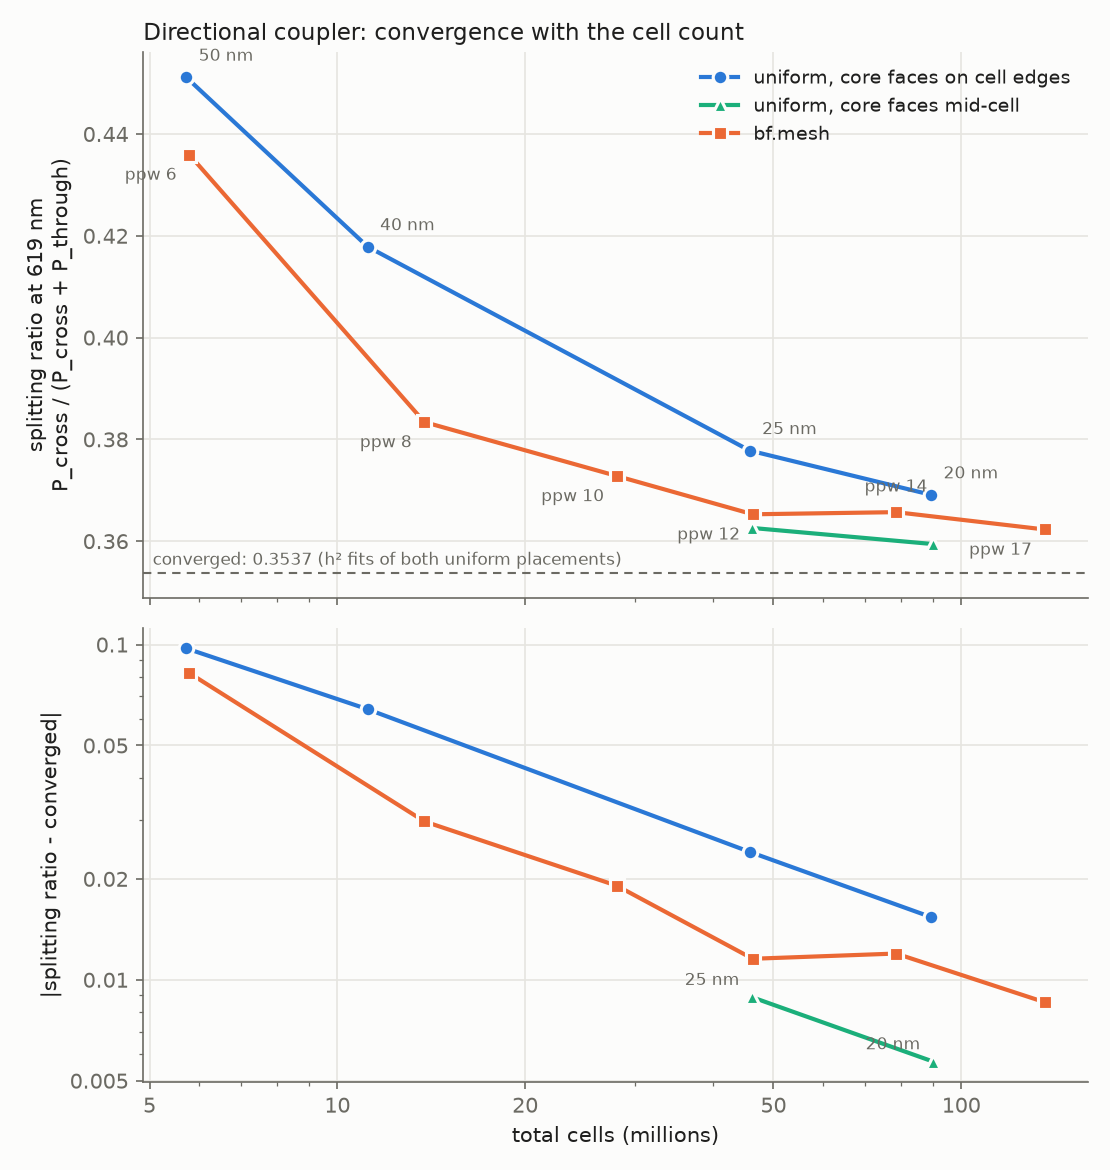
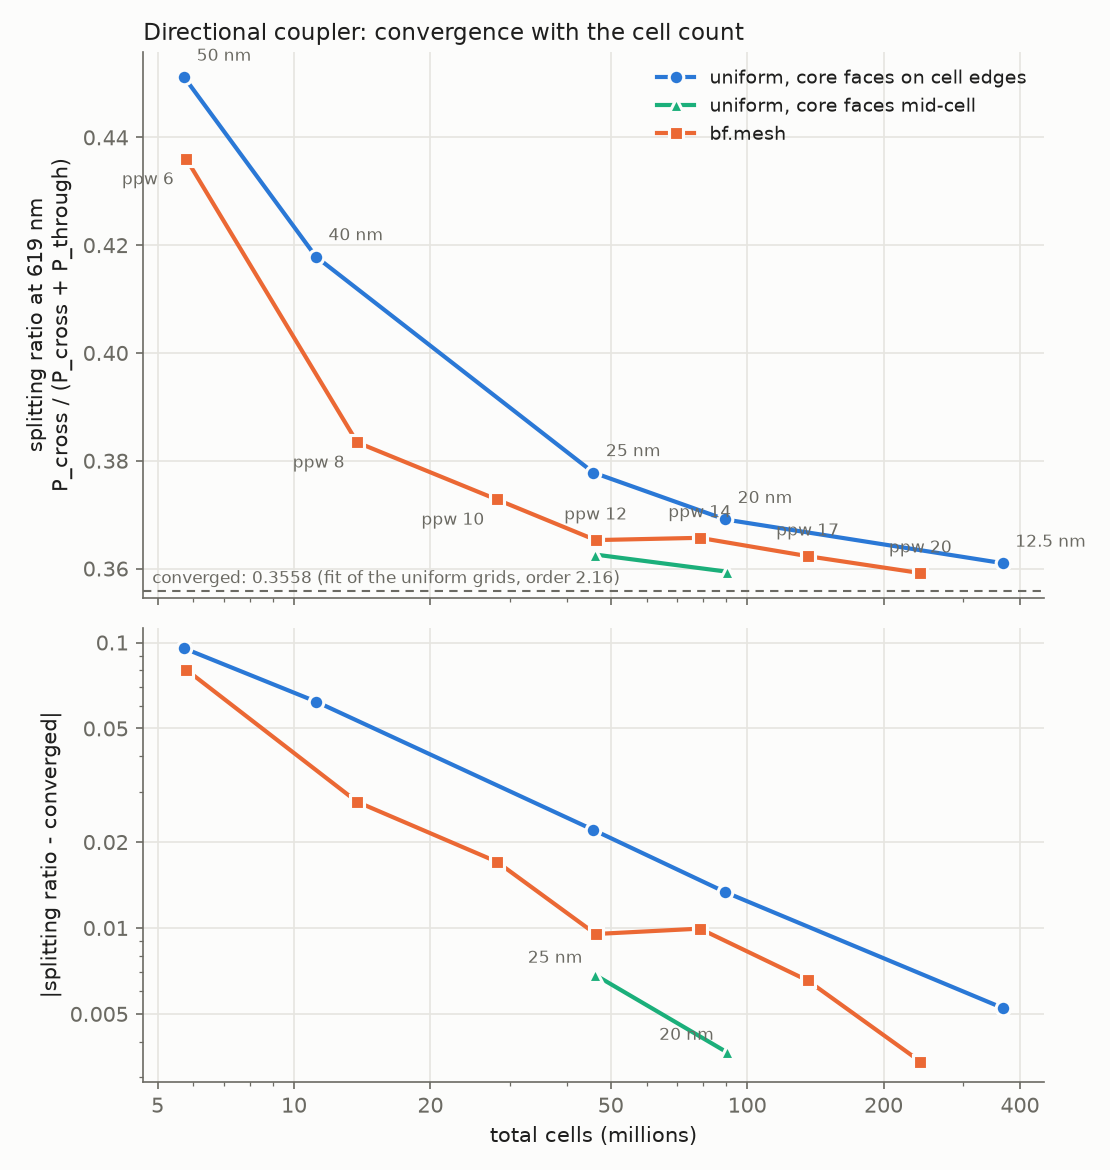
Directional coupler: the 12.5 nm and ppw 20 references; the converged value is 0.3558
Uniform 12.5 nm (366 M cells) and bf.mesh ppw 20 (241 M) ran on an H200 (75 and 49 GB
peak). The two-point h^2 fits at 25 and 20 nm were not asymptotic (they gave 0.3537); one
fit S0 + C h^p to all five uniform grids of 25 nm and finer, S0 and p shared and C per
placement of the core's faces, gives S0 = 0.3558, p = 2.16, rms 2.8e-4. bf.mesh's error
against it at ppw 14 / 17 / 20 divided by h^p is about constant (1.75e-5 to 1.35e-5): no
offset of its own, the same limit. The plot measures errors from the joint fit.

diff --git a/benchmarks/rectilinear/plot_dc_convergence.py b/benchmarks/rectilinear/plot_dc_convergence.py
@@ -4,7 +4,8 @@
 
 Top: the splitting ratio at 619 nm on uniform grids (the core's faces on cell edges, as the box puts them), on uniform
 grids shifted half a cell in z (the faces mid-cell) and on bf.mesh's. Bottom: its distance from the converged value,
-from second-order fits S0 + C h^2 to the two uniform placements (they agree; the faces' place in their cells sets C).
+from one fit S0 + C h^p to every uniform grid of 25 nm and finer, S0 and p shared by both placements and C their own
+(the faces' place in their cells sets C, not the limit).
 """
 
 from __future__ import annotations
@@ -25,10 +26,22 @@ SURFACE, INK, MUTED, GRID = "#fcfcfb", "#1f1f1e", "#6b6a63", "#e6e5e0"
 MID_SHIFT = "@3.2,"  # the uniform grids shifted half a cell in z: <grid>@3.2,<half height>
 
 
-def second_order(h: np.ndarray, s: np.ndarray) -> tuple[float, float]:
-    """(S0, C) of the least-squares fit s = S0 + C h^2."""
-    coef, *_ = np.linalg.lstsq(np.column_stack([np.ones_like(h), h**2]), s, rcond=None)
-    return float(coef[0]), float(coef[1])
+def joint_fit(groups: list[list[tuple[float, float]]]) -> tuple[float, float, list[float], float]:
+    """(S0, p, C per group, rms) of the least-squares fit s = S0 + C_g h^p, S0 and p shared, p over [1, 4]."""
+    best = None
+    rows = [(g, h, s) for g, points in enumerate(groups) for h, s in points]
+    b = np.array([s for _, _, s in rows])
+    for p in np.linspace(1.0, 4.0, 3001):
+        a = np.zeros((len(rows), 1 + len(groups)))
+        a[:, 0] = 1.0
+        for i, (g, h, _) in enumerate(rows):
+            a[i, 1 + g] = h**p
+        coef, *_ = np.linalg.lstsq(a, b, rcond=None)
+        res = float(np.sum((a @ coef - b) ** 2))
+        if best is None or res < best[0]:
+            best = (res, float(p), coef)
+    res, p, coef = best
+    return float(coef[0]), p, [float(c) for c in coef[1:]], float(np.sqrt(res / len(rows)))
 
 
 def main(src: str, dst: str) -> None:
@@ -45,14 +58,10 @@ def main(src: str, dst: str) -> None:
         """A uniform grid's cell (nm), from its name."""
         return float(r["grid"].split("-")[1].split("@")[0])
 
-    fits = []
-    for name, rs in (("faces on edges", edge), ("faces mid-cell", mid)):
-        fine = [r for r in rs if cell(r) <= 25]  # the asymptotic range
-        s0, c = second_order(np.array([cell(r) for r in fine]), np.array([r["split"] for r in fine]))
-        fits.append(s0)
-        print(f"uniform, {name}: S0 = {s0:.5f}, C = {c:.3e} per nm^2 (from {[r['grid'] for r in fine]})")
-    s0 = float(np.mean(fits))
-    print(f"converged: {s0:.5f} (the two fits differ by {abs(fits[0] - fits[1]):.1e})")
+    groups = [[(cell(r), r["split"]) for r in rs if cell(r) <= 25] for rs in (edge, mid)]  # the asymptotic range
+    s0, p, cs, rms = joint_fit(groups)
+    print(f"converged: S0 = {s0:.5f}, p = {p:.2f}, C (faces on edges, mid-cell) = {cs[0]:.3e}, {cs[1]:.3e}, "
+          f"rms {rms:.1e}")
     for r in edge + mid + mesh:
         print(f"{r['grid']:>22} {r['total_cells'] / 1e6:7.1f}M  split {r['split']:.5f}  |S - S0| "
               f"{abs(r['split'] - s0):.2e}  run {r['run_s']:.0f} s")
@@ -92,11 +101,12 @@ def main(src: str, dst: str) -> None:
         # the mid-cell points sit among bf.mesh's on top: label them in the bottom panel, where they stand apart
         ax, ys = (bottom, np.abs(split - s0)) if rs is mid else (top, split)
         for r, x, y in zip(rs, cells, ys, strict=True):
-            above = r["grid"] == "mesh-14"  # below it runs the mid-cell series
+            # below the finer bf.mesh points run the mid-cell series and the converged line
+            above = r["grid"].startswith("mesh-") and float(r["grid"].split("-")[1]) >= 12
             ax.annotate(label(r), (x, y), textcoords="offset points", xytext=(0, 8) if above else offset,
                         ha="center" if above else ha, va="bottom" if above else va, fontsize=8, color=MUTED)
     top.axhline(s0, color=MUTED, linewidth=1, linestyle=(0, (4, 3)), zorder=1)
-    top.annotate(f"converged: {s0:.4f} (h² fits of both uniform placements)", (0.01, s0),
+    top.annotate(f"converged: {s0:.4f} (fit of the uniform grids, order {p:.2f})", (0.01, s0),
                  xycoords=("axes fraction", "data"), xytext=(0, 4), textcoords="offset points", fontsize=8,
                  color=MUTED)
     top.set_ylabel("splitting ratio at 619 nm\nP_cross / (P_cross + P_through)")

diff --git a/benchmarks/rectilinear/README.md b/benchmarks/rectilinear/README.md
@@ -177,30 +177,38 @@ silica) saves a fifth of the cells at no cost in accuracy here.
 
 The silicon-nitride directional coupler of `examples/fdtdx_directional_coupler.py` (43 x 6.4 x 2.6 um, a 300 nm gap
 over 20 um); the splitting ratio `P_cross / (P_cross + P_through)` at 619 nm, on uniform grids and on `bf.mesh`'s
-(band 538 to 728 nm, ppw 6 to 17, the default tail). L40S, float32. `results/dc_convergence.jsonl`, plotted in
-`results/dc_convergence.png`:
+(band 538 to 728 nm, ppw 6 to 20, the default tail). Float32; L40S, and an H200 for the two largest grids (241 M and
+366 M cells: about 205 bytes per cell at peak, mostly `apply_stack`'s painting, 49 and 75 GB).
+`results/dc_convergence.jsonl`, plotted in `results/dc_convergence.png`:
 
 ![splitting ratio against the total cell count](results/dc_convergence.png)
 
 The splitting ratio is very sensitive: the coupling falls about as `exp(-8.9 gap / um)`, so 1 nm of effective gap moves
-it by about 6e-3. Its second-order error depends on where the core's faces (z = +-0.1 um) fall in their cells:
+it by about 6e-3. Its error depends on where the core's faces (z = +-0.1 um) fall in their cells, and the uniform grids
+always put them on cell edges (the box is whole cells from them); shifted half a cell in z
+(`uniform-<nm>@3.2,<half height>`) they sit mid-cell:
 
-| grid | core faces | 25 nm | 20 nm | second-order fit S0 + C h^2 |
+| uniform grid | core faces | 25 nm | 20 nm | 12.5 nm |
 |---|---|---|---|---|
-| uniform (the box puts the faces on cell edges) | on edges | 0.37780 | 0.36911 | S0 = 0.35365, C = 3.9e-5 / nm^2 |
-| uniform, shifted half a cell in z (`uniform-<nm>@3.2,<half height>`) | mid-cell | 0.36259 | 0.35943 | S0 = 0.35380, C = 1.4e-5 / nm^2 |
+| the box's own lattice | on edges | 0.37780 | 0.36911 | 0.36100 |
+| shifted half a cell in z | mid-cell | 0.36259 | 0.35943 | |
 
-The two placements converge to the same value (0.3537, within 1.4e-4); mid-cell faces have a 2.7 times smaller error
-constant here. `bf.mesh`'s lattice starts at the box's face, so its finest cells put the core's faces 0.17 to 0.44 into
-a cell, and its error constants (2.3e-5 to 4.0e-5 against 0.3537) fall between the two: the series converges to the
-same value. Shifting the lattice in y (the gap's walls on edges or mid-cell) moves the ratio by under 1e-3.
+One fit `S0 + C h^p` to these five, with S0 and p shared and C per placement, gives **S0 = 0.3558**, p = 2.16,
+C = 2.1e-5 (on edges) and 6.4e-6 (mid-cell) per nm^p, rms 2.8e-4: the placement sets the error constant, not the
+limit. (Fits of 25 and 20 nm alone, at p = 2, gave 0.3537 for both placements; 12.5 nm showed that range was not yet
+asymptotic.) Shifting the lattice in y instead (the gap's walls on edges or mid-cell) moves the ratio by under 1e-3.
 
-The mesher itself is not the source of any of this. On the lattices of the uniform grids (`cells-<core>-<clad>`:
+`bf.mesh`'s lattice starts at the box's face, so its finest cells put the core's faces 0.17 to 0.44 into a cell. Against
+S0 its error at ppw 14, 17 and 20 (core cells 19, 16 and 13 nm) is 9.9e-3, 6.6e-3 and 3.4e-3; divided by h^2.16 that is
+1.75e-5, 1.66e-5 and 1.35e-5, about constant and between the two uniform placements' constants. It has no offset of its
+own: it converges to the same value.
+
+The mesher itself is not the source of any difference. On the lattices of the uniform grids (`cells-<core>-<clad>`:
 `material_cells` forcing both materials to 20 or 25 nm) `bf.mesh`'s pipeline gives uniform 20 and 25 nm's ratios
 within 5e-6 (the same edges as a `RectilinearGrid`, with `grid=` on the ports and `Mesh.boundary`); grading the oxide
 from the 20 nm core to 27 or 40 nm in y and z moves it by 4e-6 and 2.8e-5, with 76 % and 56 % of the cells.
 
-At equal cell count `bf.mesh` is closer to the converged value than the uniform grids with faces on edges (ppw 12,
-46 M cells: 1.2e-2; uniform 20 nm, 89 M cells: 1.5e-2). Mid-cell faces on a uniform grid do better still (20 nm:
-5.7e-3), which `bf.mesh` does not choose yet. A grid of 241 M cells (`bf.mesh` ppw 20) or 366 M (uniform 12.5 nm) does
-not fit an L40S's 46 GB (about 205 bytes per cell at peak, mostly `apply_stack`'s painting).
+At equal cell count `bf.mesh` is closer to the converged value than the uniform grids with faces on edges: ppw 12
+(46 M cells) 9.5e-3 against uniform 20 nm (89 M) 1.3e-2, and ppw 20 (241 M) 3.4e-3 against uniform 12.5 nm (366 M)
+5.3e-3. Mid-cell faces on a uniform grid do better still (20 nm, 90 M cells: 3.7e-3), which `bf.mesh` does not choose
+yet.
